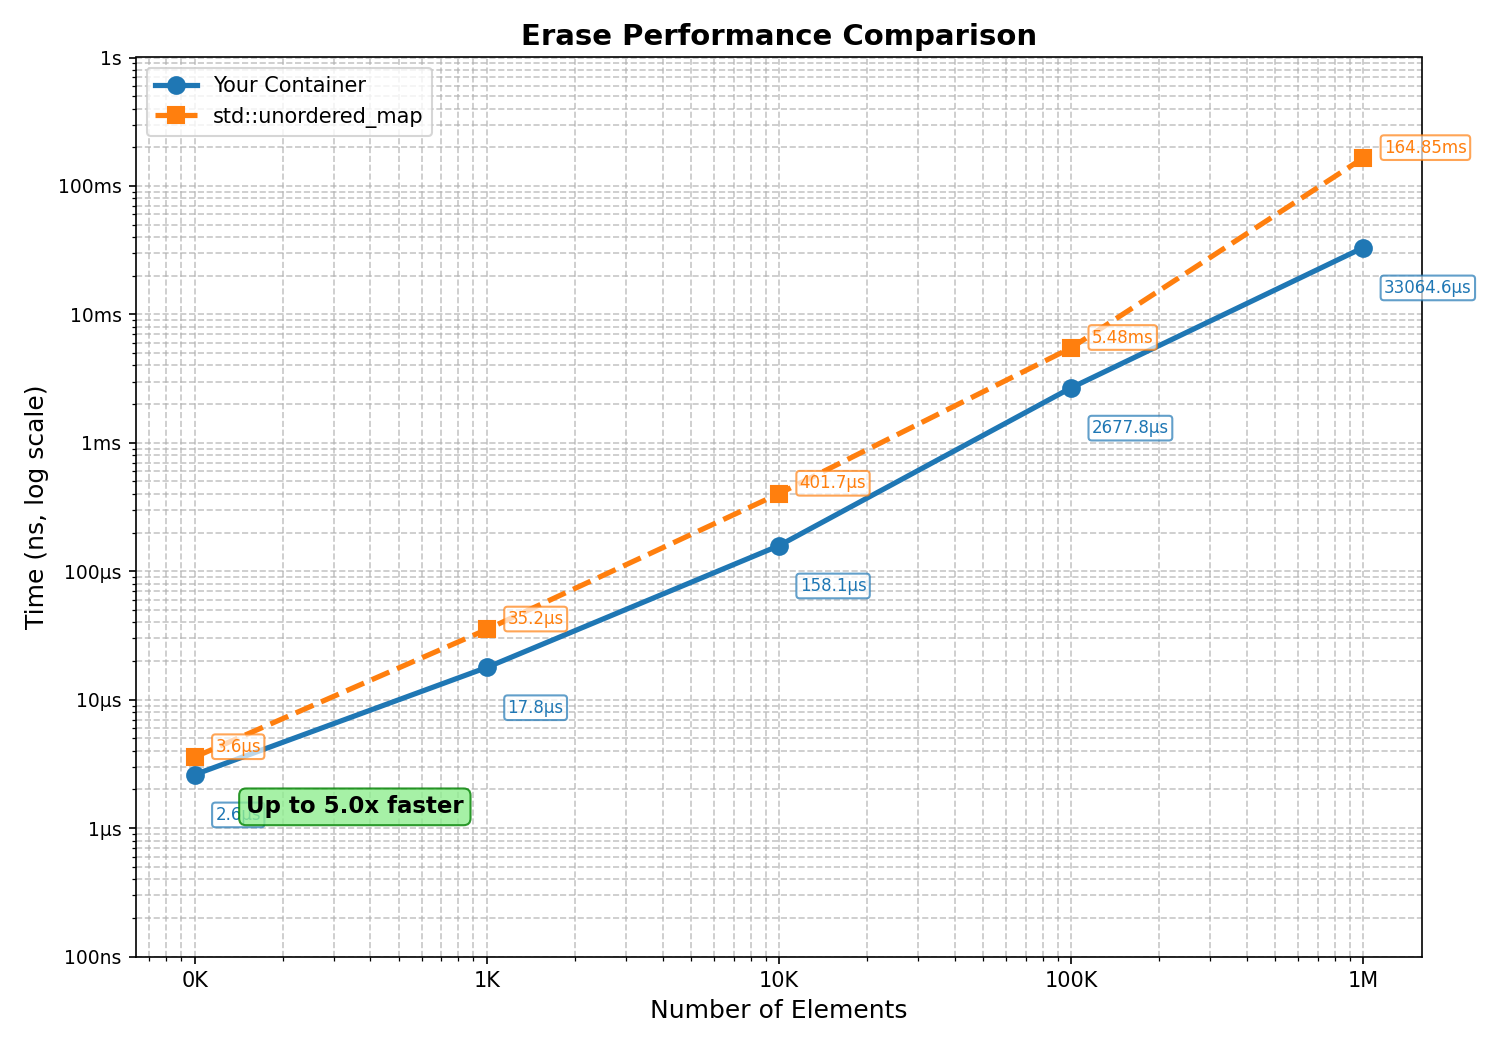
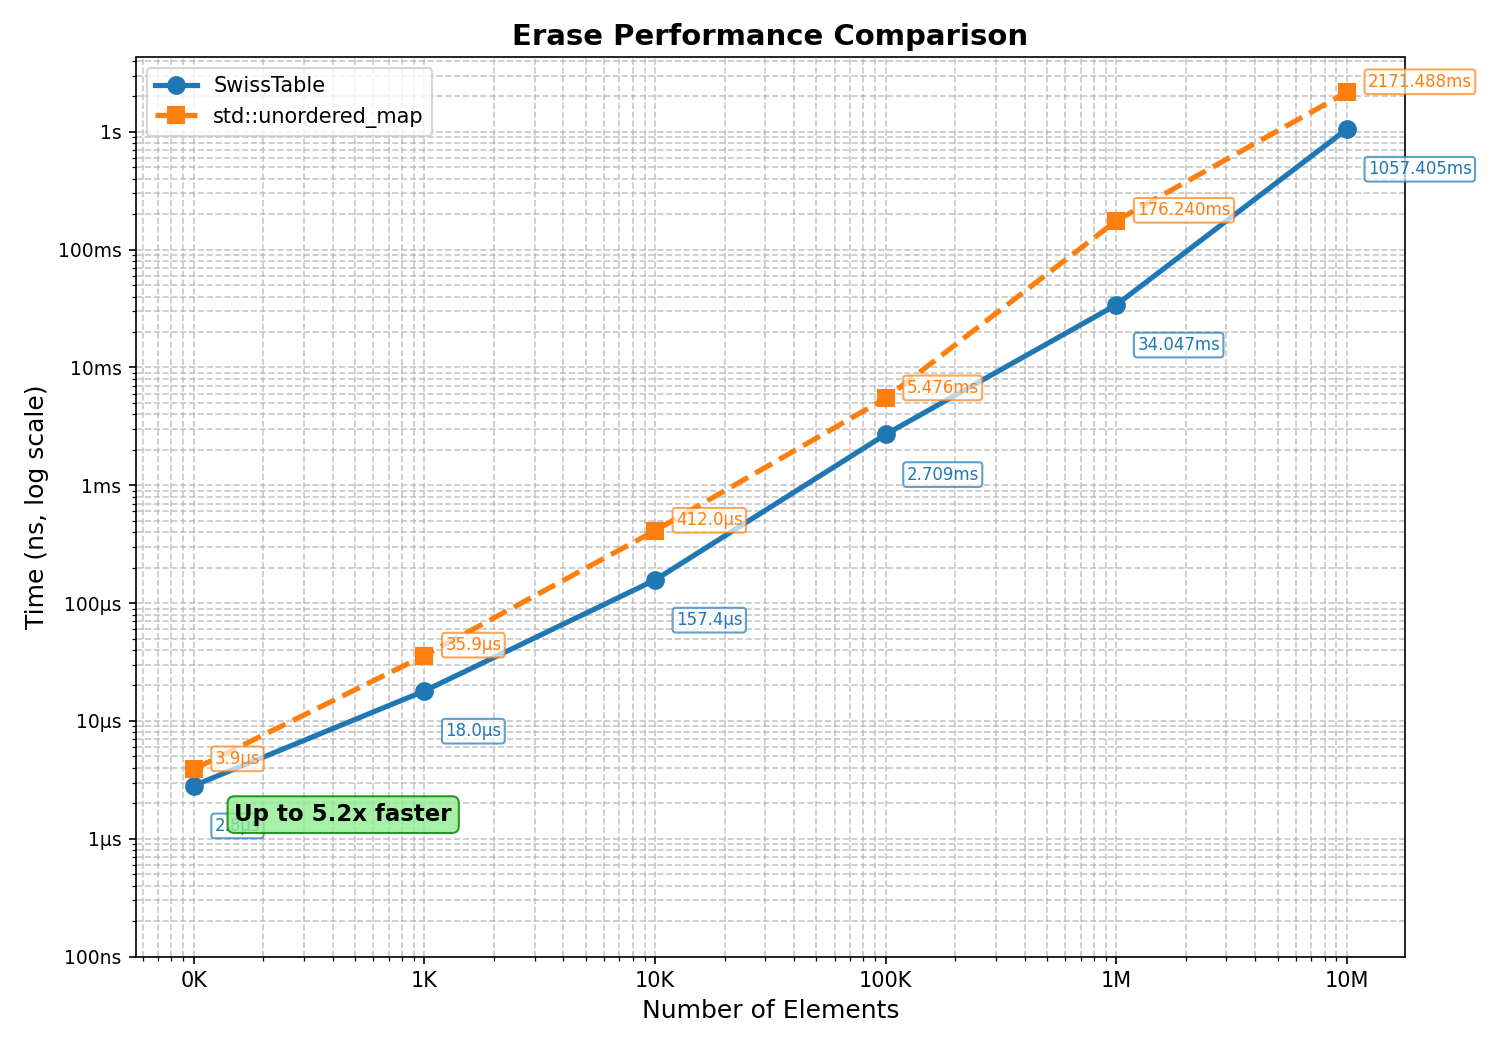
1.fix a operator++ bug(almost impossible to appear) 2.add traverse() and performance test.traverse() is used to iterate since operator ++ is very slow.

Changed region(s): [[0.0307, 0.0, 0.9813, 0.9448], [0.4293, 0.9143, 0.6133, 0.9752], [0.1227, 0.9143, 0.1533, 0.9448]]

diff --git a/perf_test.cpp b/perf_test.cpp
@@ -91,7 +91,7 @@ void test_performance_comparison() {
         auto data = generate_test_data(size);
         
         std::cout << "\nTest data size: " << size << " elements\n";
-        test_performance<UnorderedMap<int, int>>("Your container", data);
+        test_performance<UnorderedMap<int, int>>("swisstable", data);
         test_performance<std::unordered_map<int, int>>("std::unordered_map", data);
     }
 }
@@ -172,7 +172,7 @@ void test_find_performance(const std::string& name,
 }
 
 void test_find_performance_comparison() {
-    const std::vector<size_t> sizes = {100, 1000, 10000, 100000, 1000000};
+    const std::vector<size_t> sizes = {100, 1000, 10000, 100000, 1000000, 10000000};
     
     std::cout << "\n=== Find Performance Test ===\n";
     
@@ -195,7 +195,7 @@ void test_find_performance_comparison() {
         for (const auto& [k, v] : data) {
             your_map.try_emplace(k, v);
         }
-        test_find_performance("Your container", your_map, keys_to_find);
+        test_find_performance("swisstable", your_map, keys_to_find);
         
         // 测试std容器
         std::unordered_map<int, int> std_map;
@@ -282,7 +282,7 @@ void test_erase_performance(const std::string& name,
 }
 
 void test_erase_performance_comparison() {
-    const std::vector<size_t> sizes = {100, 1000, 10000, 100000, 1000000};
+    const std::vector<size_t> sizes = {100, 1000, 10000, 100000, 1000000, 10000000};
     
     std::cout << "\n=== Erase Performance Test ===\n";
     
@@ -305,7 +305,7 @@ void test_erase_performance_comparison() {
         for (const auto& [k, v] : data) {
             your_map.try_emplace(k, v);
         }
-        test_erase_performance("Your container", your_map, keys_to_erase);
+        test_erase_performance("swisstable", your_map, keys_to_erase);
         
         // 测试std容器
         std::unordered_map<int, int> std_map;
@@ -327,8 +327,7 @@ void test_iteration_performance(const std::string& name,
         for (auto it = map.begin(); it != map.end(); ++it) {
             sum += it->second;
         }
-    }
-    
+    } 
     auto end = std::chrono::high_resolution_clock::now();
     auto duration = std::chrono::duration_cast<std::chrono::nanoseconds>(end - start).count();
     
@@ -337,8 +336,30 @@ void test_iteration_performance(const std::string& name,
               << "iteration count: " << iteration_count << ")\n";
 }
 
+template<typename MapType>
+void test_iteration_performance_traverse(const std::string& name, 
+                               MapType& map, 
+                               size_t iteration_count) {
+    auto start = std::chrono::high_resolution_clock::now();
+    
+    volatile size_t sum = 0;
+    auto cal_sum = [&sum](HashPair<int, int> &pair) {
+        sum += pair.second;
+    };
+    map.ctraverse(map.cbegin(), map.cend(), cal_sum);
+    
+    auto end = std::chrono::high_resolution_clock::now();
+    auto duration = std::chrono::duration_cast<std::chrono::nanoseconds>(end - start).count();
+    
+    std::cout << name << " traverse iteration time: " << duration << " ns ("
+              << "container size: " << map.size() << ", "
+              << "iteration count: " << iteration_count << ")\n";
+}
+
+
+
 void test_iteration_performance_comparison() {
-    const std::vector<size_t> sizes = {100, 1000, 10000, 100000, 1000000};
+    const std::vector<size_t> sizes = {100, 1000, 10000, 100000, 1000000, 10000000};
     const size_t iteration_count = 10;
     
     std::cout << "\n=== Iteration Performance Test ===\n";
@@ -362,7 +383,8 @@ void test_iteration_performance_comparison() {
         for (auto it = std_map.begin(); it != std_map.end(); ++it) {}
         
         // 测试迭代性能
-        test_iteration_performance("Your container", your_map, iteration_count);
+        test_iteration_performance_traverse("swisstable traverse", your_map, iteration_count);
+        test_iteration_performance("swisstable operator ++", your_map, iteration_count);
         test_iteration_performance("std::unordered_map", std_map, iteration_count);
     }
 }
@@ -382,7 +404,7 @@ void test_clear_performance(const std::string& name, MapType& map) {
 
 // 清除性能对比测试
 void test_clear_performance_comparison() {
-    const std::vector<size_t> sizes = {100, 1000, 10000, 100000, 1000000};
+    const std::vector<size_t> sizes = {100, 1000, 10000, 100000, 1000000, 10000000};
     
     std::cout << "\n=== Clear Performance Test ===\n";
     
@@ -396,7 +418,7 @@ void test_clear_performance_comparison() {
         for (const auto& [k, v] : data) {
             your_map.try_emplace(k, v);
         }
-        test_clear_performance("Your container", your_map);
+        test_clear_performance("swisstable", your_map);
         
         // 测试std容器
         std::unordered_map<int, int> std_map;
@@ -408,27 +430,27 @@ void test_clear_performance_comparison() {
 }
 
 int main() {
-    UnorderedMap<int, int> m;
-    for (size_t i = 0; i < 100; ++i) {
-        m.try_emplace(i, i);
-    }
-    for (size_t i = 0; i < 100; ++i) {
-        m.find(i);
-    }
-    for (size_t i = 0; i < 100; ++i) {
-        m.erase(i);
-    }
+    // UnorderedMap<int, int> m;
+    // for (size_t i = 0; i < 100; ++i) {
+    //     m.try_emplace(i, i);
+    // }
+    // for (size_t i = 0; i < 100; ++i) {
+    //     m.find(i);
+    // }
+    // for (size_t i = 0; i < 100; ++i) {
+    //     m.erase(i);
+    // }
     // test correctness
     // test_correctness();
     // test_find_correctness();
     // test_erase_correctness();
 
     // // perfermance test
-    // test_performance_comparison();        // insert
-    // test_find_performance_comparison();   // find
-    // test_erase_performance_comparison();  // erase
-    // test_iteration_performance_comparison(); // iteration
-    // test_clear_performance_comparison();  // clear
+    test_performance_comparison();        // insert
+    test_find_performance_comparison();   // find
+    test_erase_performance_comparison();  // erase
+    test_iteration_performance_comparison(); // iteration
+    test_clear_performance_comparison();  // clear
     
     // std::cout << "\nAll tests completed!\n";
     // return 0;

diff --git a/swisstable.h b/swisstable.h
@@ -7,6 +7,8 @@
 #include <cstring>
 #include <iostream>
 
+#define likely(x) __builtin_expect(!!(x), 1)
+#define unlikely(x) __builtin_expect(!!(x), 0)
 #define InValidIdx SIZE_MAX
 
 template <typename T, typename = void>
@@ -248,22 +250,32 @@ public:
         pointer operator->() { return get_data_ptr(); }
 
         iterator_template &operator++() {
-            if (_group_idx == InValidIdx) {
+            if (unlikely(_group_idx == InValidIdx)) {
                 return *this;
             }
             // search in current group
             uint16_t used_slot = _table->match_full(_group_idx);
             used_slot = (used_slot >> (_slot_idx + 1)) << (_slot_idx + 1);
-            if (used_slot) {
+            if (likely(used_slot)) {
                 _slot_idx = __builtin_ctz(used_slot);
+                if (unlikely(_slot_idx + _group_idx > _table->_capacity)) {
+                    _table = NULL;
+                    _slot_idx = InValidIdx;
+                    _group_idx = InValidIdx;
+                }
                 return *this;
             }
             // search the next group
             for (size_t gidx = _group_idx + group_size; gidx < _table->_capacity; gidx += group_size) {
                 uint16_t used_slot = _table->match_full(gidx);
-                if (used_slot) {
+                if (likely(used_slot)) {
                     _group_idx = gidx;
                     _slot_idx = __builtin_ctz(used_slot);
+                    if (unlikely(_slot_idx + _group_idx > _table->_capacity)) {
+                        _table = NULL;
+                        _slot_idx = InValidIdx;
+                        _group_idx = InValidIdx;
+                    }
                     return *this;
                 }
             }
@@ -511,6 +523,74 @@ public:
     void destroy() {
         destroy_used_slots();
         destroy_table();
+    }
+
+    template <typename Callback>
+    void ctraverse(const_iterator start, const_iterator dest, Callback &&callback) {
+        size_t start_true_idx = 0;
+        size_t dest_true_idx = 0;
+        if (start == cend()) {
+            return;
+        }
+        start_true_idx = get_true_idx(start._group_idx, start._slot_idx); 
+        if (dest == cend()) {
+            dest_true_idx = _capacity;
+        } else {
+            dest_true_idx = get_true_idx(dest._group_idx, dest._slot_idx);
+        }
+        if (start_true_idx > dest_true_idx) {
+            return;
+        }
+        size_t gidx = start_true_idx;
+        uint16_t used_slot = 0;
+        size_t sidx = 0;
+        for (; gidx < dest_true_idx; gidx += group_size) {
+            used_slot = match_full(gidx);
+            while(used_slot) {
+                sidx = __builtin_ctz(used_slot);
+                if (unlikely(gidx + sidx > dest_true_idx) || unlikely(gidx + sidx == _capacity)) {
+                    return;
+                }
+                entry_base &entry_ptr = _data[gidx + sidx];
+                callback(entry_ptr);
+                used_slot &= used_slot - 1;
+            }
+        }
+        return;
+    }
+
+    template <typename Callback>
+    void traverse(iterator start, iterator dest, Callback &&callback) {
+        size_t start_true_idx = 0;
+        size_t dest_true_idx = 0;
+        if (start == end()) {
+            return;
+        }
+        start_true_idx = get_true_idx(start._group_idx, start._slot_idx); 
+        if (dest == end()) {
+            dest_true_idx = _capacity;
+        } else {
+            dest_true_idx = get_true_idx(dest._group_idx, dest._slot_idx);
+        }
+        if (start_true_idx > dest_true_idx) {
+            return;
+        }
+        size_t gidx = start_true_idx;
+        uint16_t used_slot = 0;
+        size_t sidx = 0;
+        for (; gidx < dest_true_idx; gidx += group_size) {
+            used_slot = match_full(gidx);
+            while(used_slot) {
+                sidx = __builtin_ctz(used_slot);
+                if (unlikely(gidx + sidx > dest_true_idx) || unlikely(gidx + sidx == _capacity)) {
+                    return;
+                }
+                entry_base &entry_ptr = _data[gidx + sidx];
+                callback(entry_ptr);
+                used_slot &= used_slot - 1;
+            }
+        }
+        return;
     }
 
 private:

diff --git a/README.md b/README.md
@@ -40,12 +40,4 @@ int main() {
 }
 ```
 ## TODO
-### commit traverse
-since operator++ is very slow, traditional iteration way is slower than STL.
-```cpp
-for (auto it = m.begin(); it != m.end(); ++it) {
-    /* do something */
-}
-```
-
 ### add ARM support
